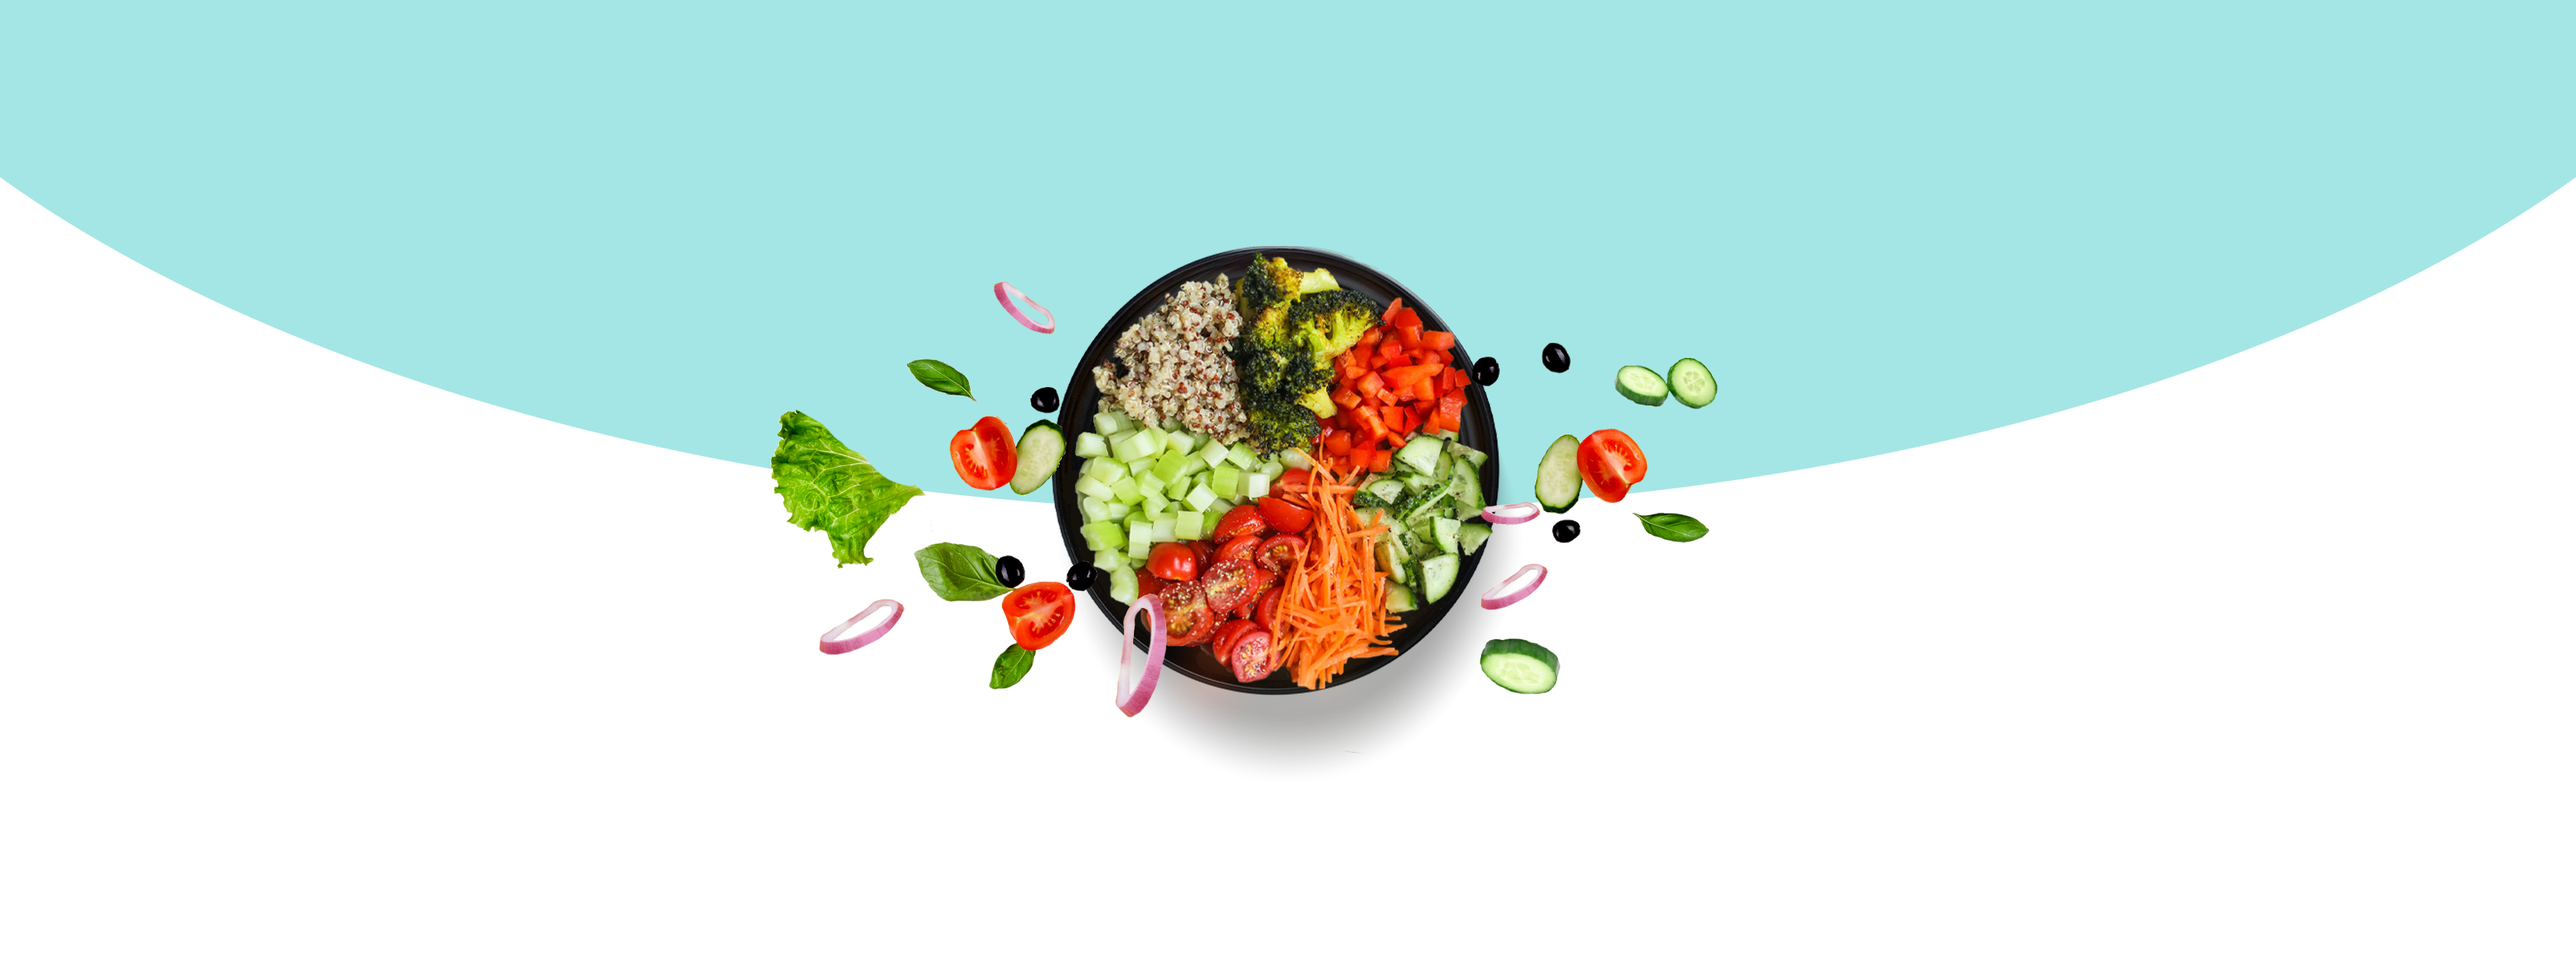
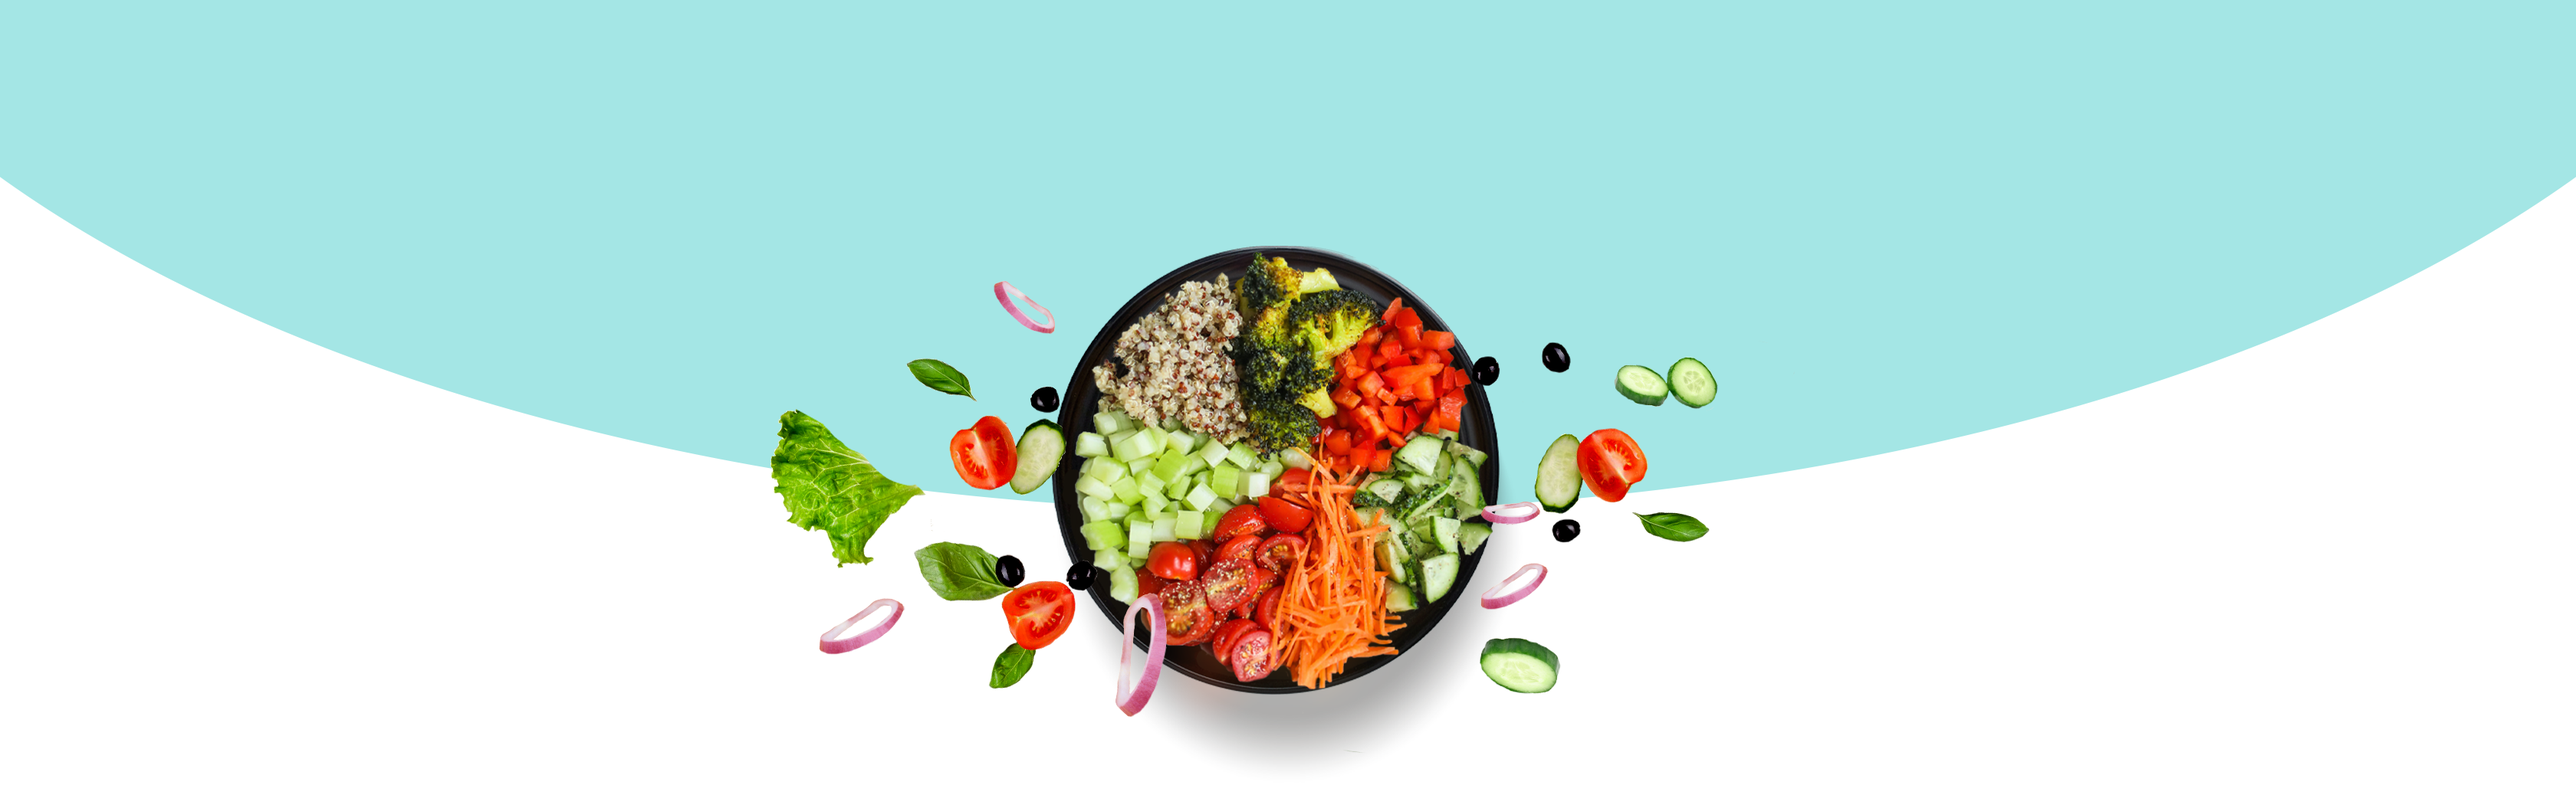
jumbotron fixed

Changed region(s): [[0.0, 0.182, 1.0, 0.9403], [0.3125, 0.7583, 0.3438, 0.819]]

diff --git a/resources/views/admin/home.blade.php b/resources/views/admin/home.blade.php
@@ -2,7 +2,7 @@
 @section('content')
     <div class="index-main">
         <div class="jumbotron d-flex justify-content-center">
-            <img src="{{ Vite::asset('resources/img/jumbo5.png') }}" class="w-100" alt="jumbotron">
+            <img src="{{ Vite::asset('resources/img/jumbo3.png') }}" class="w-100" alt="jumbotron">
         </div>
         <div class="p-5 d-flex flex-column justify-content-center ">
             <h1 class="text-center text-dark-green m-0">Ciao, {{ Auth::user()->name }}</h1>
